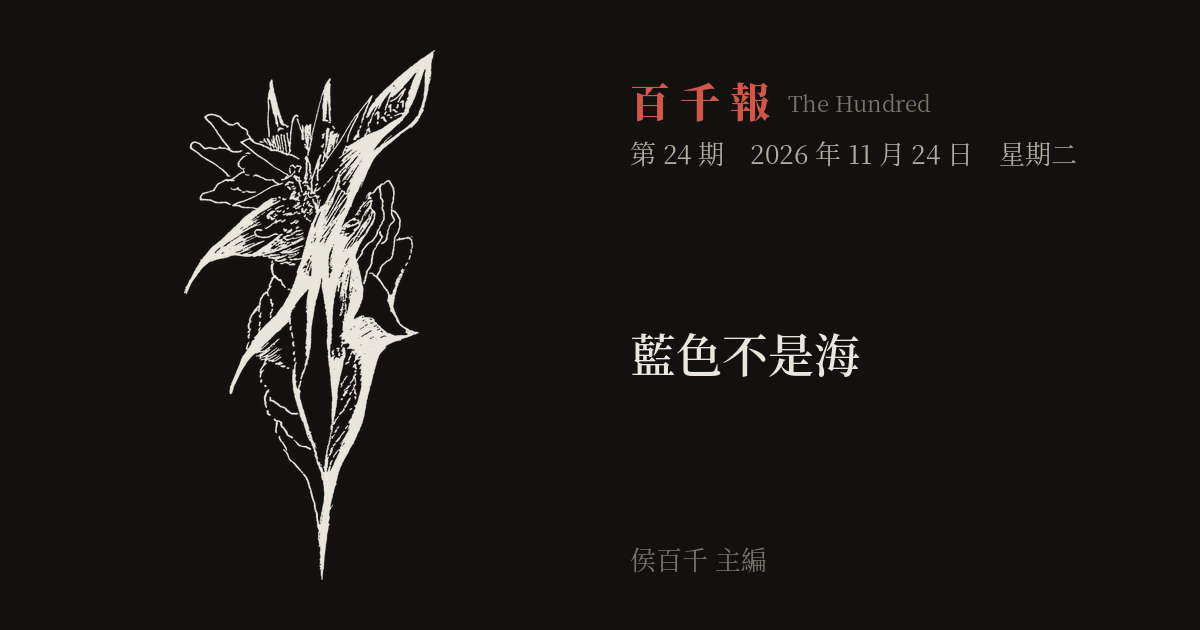
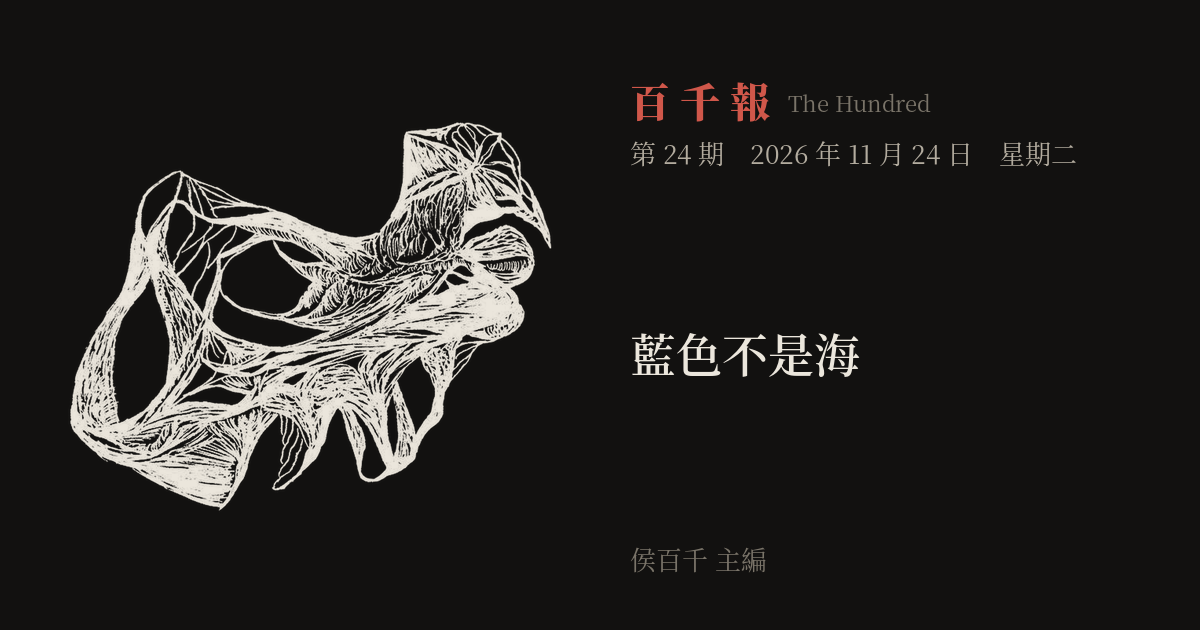
夜刊分享圖修正：build_og 自己找同期日刊的畫（第 24 期夜刊縮圖、限動圖重做）
Claude-Session: https://claude.ai/code/session_01LjXt2qLXd1e4rPYTzrHGSb

Changed region(s): [[0.0617, 0.0905, 0.4625, 0.9048]]

diff --git a/tools/build_og.py b/tools/build_og.py
@@ -102,6 +102,8 @@ def render(meta, x, fonts, ImageFont, Image, ImageDraw):
         art_n = int(x.get("art") or 0)
     except (TypeError, ValueError):
         art_n = 0
+    if art_n < 1 and x.get("edition") == "night":
+        art_n = night_art(no_i)
     if art_n < 1 or not (ART_DIR / f"{art_n:02d}.webp").exists():
         art_n = (no_i - 1) % LEGACY_ROTATION + 1 if no_i > 0 else 0
     if art_n:
@@ -159,6 +161,19 @@ def articles(x):
     return [(k, x[k]) for k in KEYS if isinstance(x.get(k), dict) and x[k].get("title") and x[k].get("body")]
 
 
+def night_art(no_i):
+    """夜刊沒寫 art 時，回傳同期數日刊的 art（跟 build_news_pages.sync_night_art 同一規則）。"""
+    import json
+    for f in sorted((ROOT / "news" / "issues").glob("*.json")):
+        try:
+            d = json.loads(f.read_text())
+        except Exception:
+            continue
+        if d.get("edition") != "night" and not d.get("special") and d.get("issue_no") == no_i and isinstance(d.get("art"), int) and d["art"] >= 1:
+            return d["art"]
+    return 0
+
+
 def art_of(meta, x):
     no_i = int(x.get("issue_no") or meta.get("issue_no") or 0)
     try:
@@ -168,7 +183,7 @@ def art_of(meta, x):
     if n < 1 or not (ART_DIR / f"{n:02d}.webp").exists():
         n = (no_i - 1) % LEGACY_ROTATION + 1 if no_i > 0 else 0
     if x.get("edition") == "night" and not (isinstance(x.get("art"), int) and x["art"] >= 1):
-        n = 3  # 夜刊共用同期日刊的畫（sync_night_art 寫進 art）；找不到才用預設圖那張
+        n = night_art(no_i) or 3  # 夜刊共用同期日刊的畫；build_news_pages 的 sync_night_art 還沒跑時，這裡自己去同期日刊找
     return n, no_i
 
 
